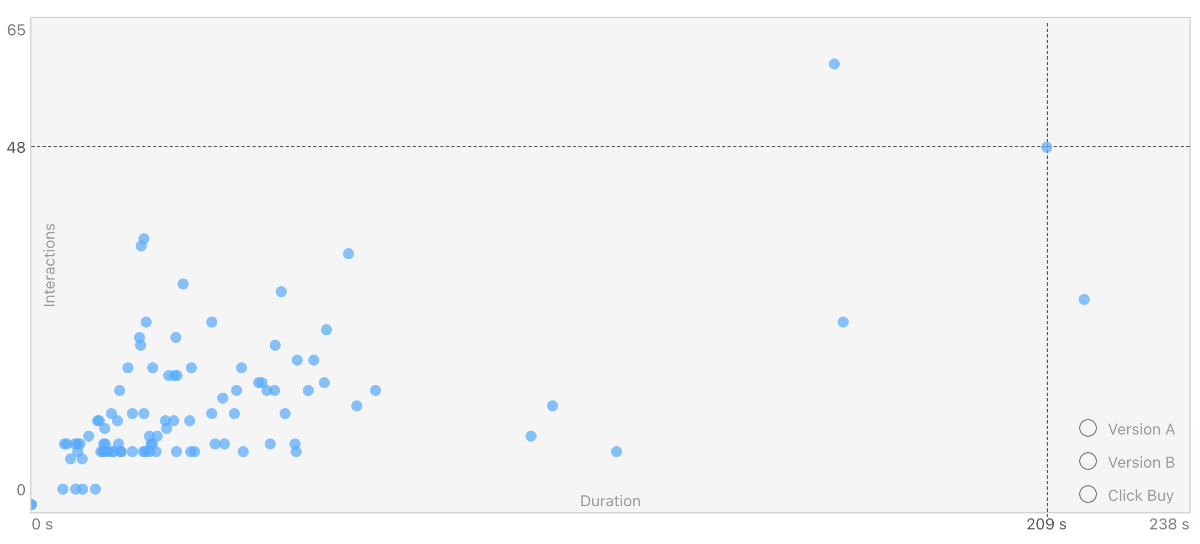
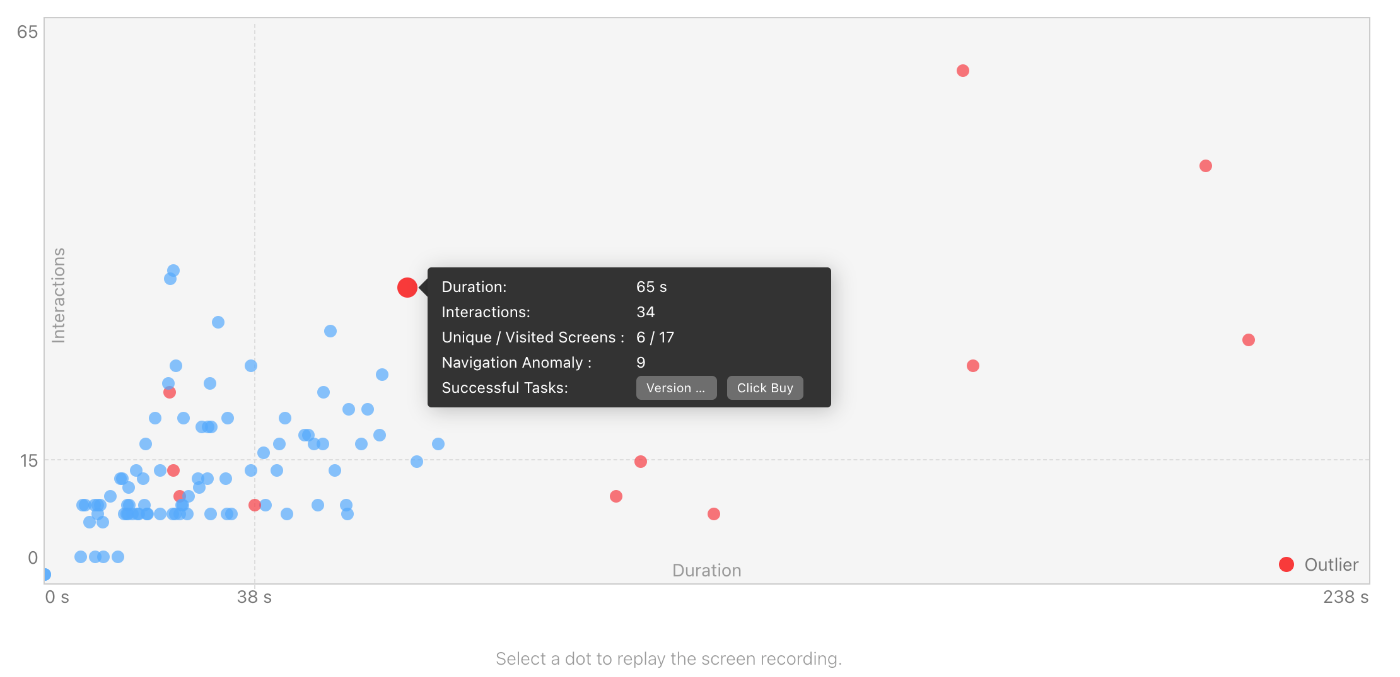
Updated help and computation of interactions.

diff --git a/src/help/en/analytics_scatter.js b/src/help/en/analytics_scatter.js
@@ -20,14 +20,12 @@ export let texts = [
                 "title": "",
                 "body": `
                    
-                    The data is shown as a scatter plot. Each user is presented 
-                    as a circle in the diagram. The x-axis represents the time the users spend, 
-                    the y-axis the amount of interactions.
-                    
-                    <p class="MatcHelpCallout">
-                        By clicking on a circle, one can
-                        open the session replay. Just click on the link that will appear below the chart.
-                    </p> 
+                    The data distribution gives you an overview of how much time the users spend 
+                    on the prototype and how many clicks they took.
+                    The data is shown as a scatter plot. Each user is presented as a circle in the diagram. 
+                    The x-axis represents the time the users spend (duration), and 
+                    the y-axis the number of clicks (interactions).
+                 
                 `,
                 "image": {
                     "src": '/help/DataDistScatter.png',
@@ -39,45 +37,80 @@ export let texts = [
                 "title": "",
                 "body": `
                                           
-                        This view is useful for two reasons:
-                      
+                    
                         <p>
-                                <b>First</b>, it gives an instant overview of how the data is distributed. Often the 
-                                majority of the testers will use a similar amount of clicks and time. 
-                                This will lead to a dense area in the plot, where a lot of the circles 
-                                are close together, which can be easily spotted. If this area is at a 
-                                different place than you expected, the design 
-                                might have some issues or the task descriptions were not clear. 
-                        
+                            The scatter plot gives an instant overview of how the data is distributed. 
+                            Often, most testers will use a similar amount of clicks and time. 
+                            This will lead to a dense plot area where many of the circles are close 
+                            together, which can be easily spotted. If this area is at a different place 
+                            than you expected, the design might have some issues, or the task 
+                            descriptions need to be more precise.                         
                         </p>
                         <br>
-                        <p>
-                                <b>Second</b>, the scatter plot makes it very easy to spot users that 
-                                behaved differently. For instance a very short duration might
-                                indicate that the users didn’t understand the design and quit immediately. 
-                                A long duration can show that the users were interested, but didn’t understand 
-                                how the design works. The same principles apply for the number of interactions. 
-                                Once you have spotted such users, the best way is to 
-                                examine the screen recording, to better understand the users issues.
-                         </p>  
-                       
+                      
+                           
+                        <p class="MatcHelpCallout">
+                            By clicking on a circle, one can
+                            open the session replay. Just click on the link that will appear below the chart.
+                        </p> 
+                        
                 `
             },
             {
-                "id": "analytics.dist.scatter.tasks",
-                "title": "Task Overlay",
+                "id": "analytics.dist.scatter.outlier",
+                "title": "Outliers",
                 "body": `
-                    The scatter plot can also indicate which users 
-                    have successfully completed a task. By selecting a task in the 
-                    lower right corner, the corresponding sessions will 
-                    be highlighted. Using the task overlay, can give additional insights. For instance,
-                    you might confirm that task completion is related with the duration.
+                    <p>
+                        In statistics, outliers are data points very different from most of the data. 
+                        Nevertheless, often it is interesting to investigate these data points because they reveal important insights.
+                    </p>
+                    <br>
+                    <p>                    
+                        In the scatter plot, outliers are marked red. These points present users have behaved 
+                        differently than the majority of the users. For instance, they take more time, 
+                        finish different tasks, or navigate unexpectedly. For the analysis, Quant-UX uses 
+                        not only the interactions and the duration as inputs but also the following variables:
+
+
+                        <ol>
+                            <li>
+                                <b>Duration</b>: The total time the user has spent on the test. 
+                                A very high or low number might indicate that the user had issues.
+                            </li>
+                            <li>
+                                <b>Interactions:</b>  The number of clicks and other interactions that the user has done.
+                            </li>
+                            <li>
+                                <b>Unique Screens:</b> The number of individual screens a user has seen. This metric 
+                                quantifies if the user was able to navigate through the design.
+                            </li>
+                            <li>
+                                <b>Total Screens:</b> The total number of screens a user has visited. This number might 
+                                differ from the number of visited screens, for instance, if users go back and forth 
+                                between two screens. A significant difference might be a sign that the user had 
+                                problems with the navigation.
+                            </li>
+                            <li>
+                                <b>Navigation Anomaly:</b> This metric measures how different a user's navigation patterns 
+                                are compared to those of other users. For instance, if all users click 'button 1', 'button 2' 
+                                and 'button 3' expect of one user that clicked 'button 3', 'button 2' and 'button 1', that 
+                                last user would have a very high score (100) in this metric.
+                            </li>
+                            <li>
+                                <b>Task Success:</b> The number of tasks the user could complete.
+                            </li>
+                        </ol>
+
+
+
+                    <p>
+                    <br>
+                    <p class="MatcHelpCallout">                 
+                        Hovering over the points will open a tooltip with additional information to help understand why the user 
+                        was an outlier. For a deeper analysis, click on the point and open the screen recording for an in-depth review.
+                    <p>
           
-                `,
-                "image": {
-                    "src": '/help/DataDistScatterTask.png',
-                    "caption": "All users that completed the task are shown in green"
-                }
+                `
             },
         ]
 

diff --git a/src/views/apps/analytics/DistributionSection.vue b/src/views/apps/analytics/DistributionSection.vue
@@ -1,10 +1,10 @@
 
 <template>
-    <div class="">
+    <div class="MatcDistributionSection">
         <div class="level">
         <div class="level-left">
           <h2 class="title level-item">
-            <span data-nls="testSettingsTasks">{{$t('analytics.distribution.title')}}</span>
+            <span >{{$t('analytics.distribution.title')}}</span>
             <HelpButton
               topic="analytics.dist"
               :hasNotifications="false"
@@ -31,7 +31,7 @@
 
           <CheckBox @change="onChangeNorm" :value="false" label="zScore" v-if="hasConfig"/>
 
-          <CheckBox @change="onChangeAlgo" :value="false" label="DBSCAN" v-if="hasConfig"/>
+          <DropDownButton @change="onChangeAlgo" :value="clusterAlgo" :options="clusterAlgoOptions" v-if="hasConfig"/>
 
           <DropDownSelect
             v-if="hasConfig"
@@ -62,7 +62,7 @@
                   :events="events"
                   :annotation="annotation"
                   :test="test"/>
-
+<!-- 
               <OutlierPlot 
                   v-if="viewMode === 'Outlier'" 
                   @selected="showSelection"
@@ -80,7 +80,7 @@
                 :pub="pub"
                 :events="events"
                 :annotation="annotation"
-                :test="test" />
+                :test="test" /> -->
               
               </template>
       
@@ -94,15 +94,24 @@
   </template>
   <style lang="scss">
       //@import '../../../style/survey_section.scss';
+
+      .MatcDistributionSection .MatcDropDownButtonWidth{
+        min-width: auto;
+        color: #3787f2;
+      }
+
+      .MatcDistributionSection .MatcDropDownButtonWidth:hover{
+        min-width: auto;
+        color: #fff;
+      }
   </style>
   <script>
   import Logger from 'common/Logger'
-  //import DropDownButton from 'page/DropDownButton'
+  import DropDownButton from 'page/DropDownButton'
   import CheckBox from 'common/CheckBox'
   import DropDownSelect from 'page/DropDownSelect'
   import HelpButton from "help/HelpButton";
   import ScatterPlot from './ScatterPlot'
-  import DistributionTable from './DistributionTable.vue'
   
   export default {
       name: 'DistributionSection',
@@ -131,8 +140,13 @@
               {key: "outlierRaw", label: "Outlier Raw"},
               {key: "outlierUmap", label: "Outlier Umap"},
             ],
+            clusterAlgoOptions: [
+                {value: 'optics', label: 'Optics'},
+                {value: 'dbscan', label: 'DBScan'},
+                {value: 'lof', label:' LOF'}
+            ],
             clusterOptions: [
-                {value: 'duration', label: this.$t('analytics.distribution.details.duration'), check:true, selected: true},
+                {value: 'duration', label: this.$t('analytics.distribution.details.duration'), check:true,  selected: true},
                 {value: 'interactions', label: this.$t('analytics.distribution.details.interactions'), check:true, selected: true},
                 {value: 'screenLoads', label: this.$t('analytics.distribution.details.screenLoads'), check:true, selected: true},
                 {value: 'screenRatio', label: this.$t('analytics.distribution.details.screenRatio'), check:true, selected: false},
@@ -149,11 +163,11 @@
       components: {
         'HelpButton': HelpButton,
         'DropDownSelect': DropDownSelect,
-       // 'DropDownButton': DropDownButton,
+        'DropDownButton': DropDownButton,
         'ScatterPlot': ScatterPlot,
-        'DistributionTable': DistributionTable,
         'CheckBox': CheckBox,
-        'OutlierPlot':() => import(/* webpackChunkName: "outlier" */ './OutlierPlot')
+        // 'OutlierPlot':() => import(/* webpackChunkName: "outlier" */ './OutlierPlot'),
+        // 'DistributionTable': import(/* webpackChunkName: "outlier" */'./DistributionTable.vue'),
       },
       computed: {
        
@@ -162,8 +176,8 @@
         onChangeNorm (d) {
           this.clusterNorm = d ? 'zScore' : 'minmax'
         },
-        onChangeAlgo (d) {
-          this.clusterAlgo = d ? 'dbscan' : 'optics'
+        onChangeAlgo (a) {
+          this.clusterAlgo = a
         },
         onChangeCluster (d) {
           let clusterVars = []
@@ -193,7 +207,7 @@
       },
       mounted () {
         this.logger = new Logger('DistributionSection')
-        this.hasConfig = location.href.indexOf('localhost') >= 0
+        //this.hasConfig = location.href.indexOf('localhost') >= 0
         this.isLoaded = true       
       }
   }

diff --git a/src/views/apps/analytics/ScatterPlotDetails.vue b/src/views/apps/analytics/ScatterPlotDetails.vue
@@ -22,14 +22,14 @@
                                 {{value.s.interactions}}
                             </td>
                         </tr>
-                        <tr>
+                        <!-- <tr>
                             <td>
                                 {{getNLS("analytics.distribution.details.errors")}}:
                             </td>
                             <td>
                                 {{value.s.errors}}
                             </td>
-                        </tr>
+                        </tr> -->
                      
                         <tr>
                             <td>

diff --git a/src/dash/Analytics.js b/src/dash/Analytics.js
@@ -654,9 +654,11 @@ export default class {
 			const count = session.count('type')
 			const screenLoads = count.get('ScreenLoaded', null, 0) + count.get('OverlayLoaded', null, 0)
 			const uniqueScreens =  session.unique('screen')
+			const clicks = session.select("type", "in",["ScreenClick","WidgetClick","WidgetChange", "ScreenGesture", "WidgetGesture"])
 			result[id] = {
 				session: id,
-				interactions: session.size(),
+				size: session.size(),
+				interactions: clicks.size(),
 				date: session.min("time"),
 				duration:  Math.ceil((session.max("time") - session.min("time"))),
 				screenLoads: screenLoads,

diff --git a/src/views/apps/analytics/DistributionTable.vue b/src/views/apps/analytics/DistributionTable.vue
@@ -58,6 +58,7 @@ export default {
 
 
             this.sessionDetails = this.analytics.getSessionDetails(this.df, this.tasks)
+         
 
             const data = this.analytics.convertSessionDetails(this.sessionDetails)
 

diff --git a/src/style/scatter.scss b/src/style/scatter.scss
@@ -43,6 +43,8 @@
 			display: flex;
 			gap: 8px;
 			align-items: flex-start;
+			width: 140px;
+			flex-wrap: wrap;
 		} 
 
 		.MatcScatterPlotDetailsTask {
